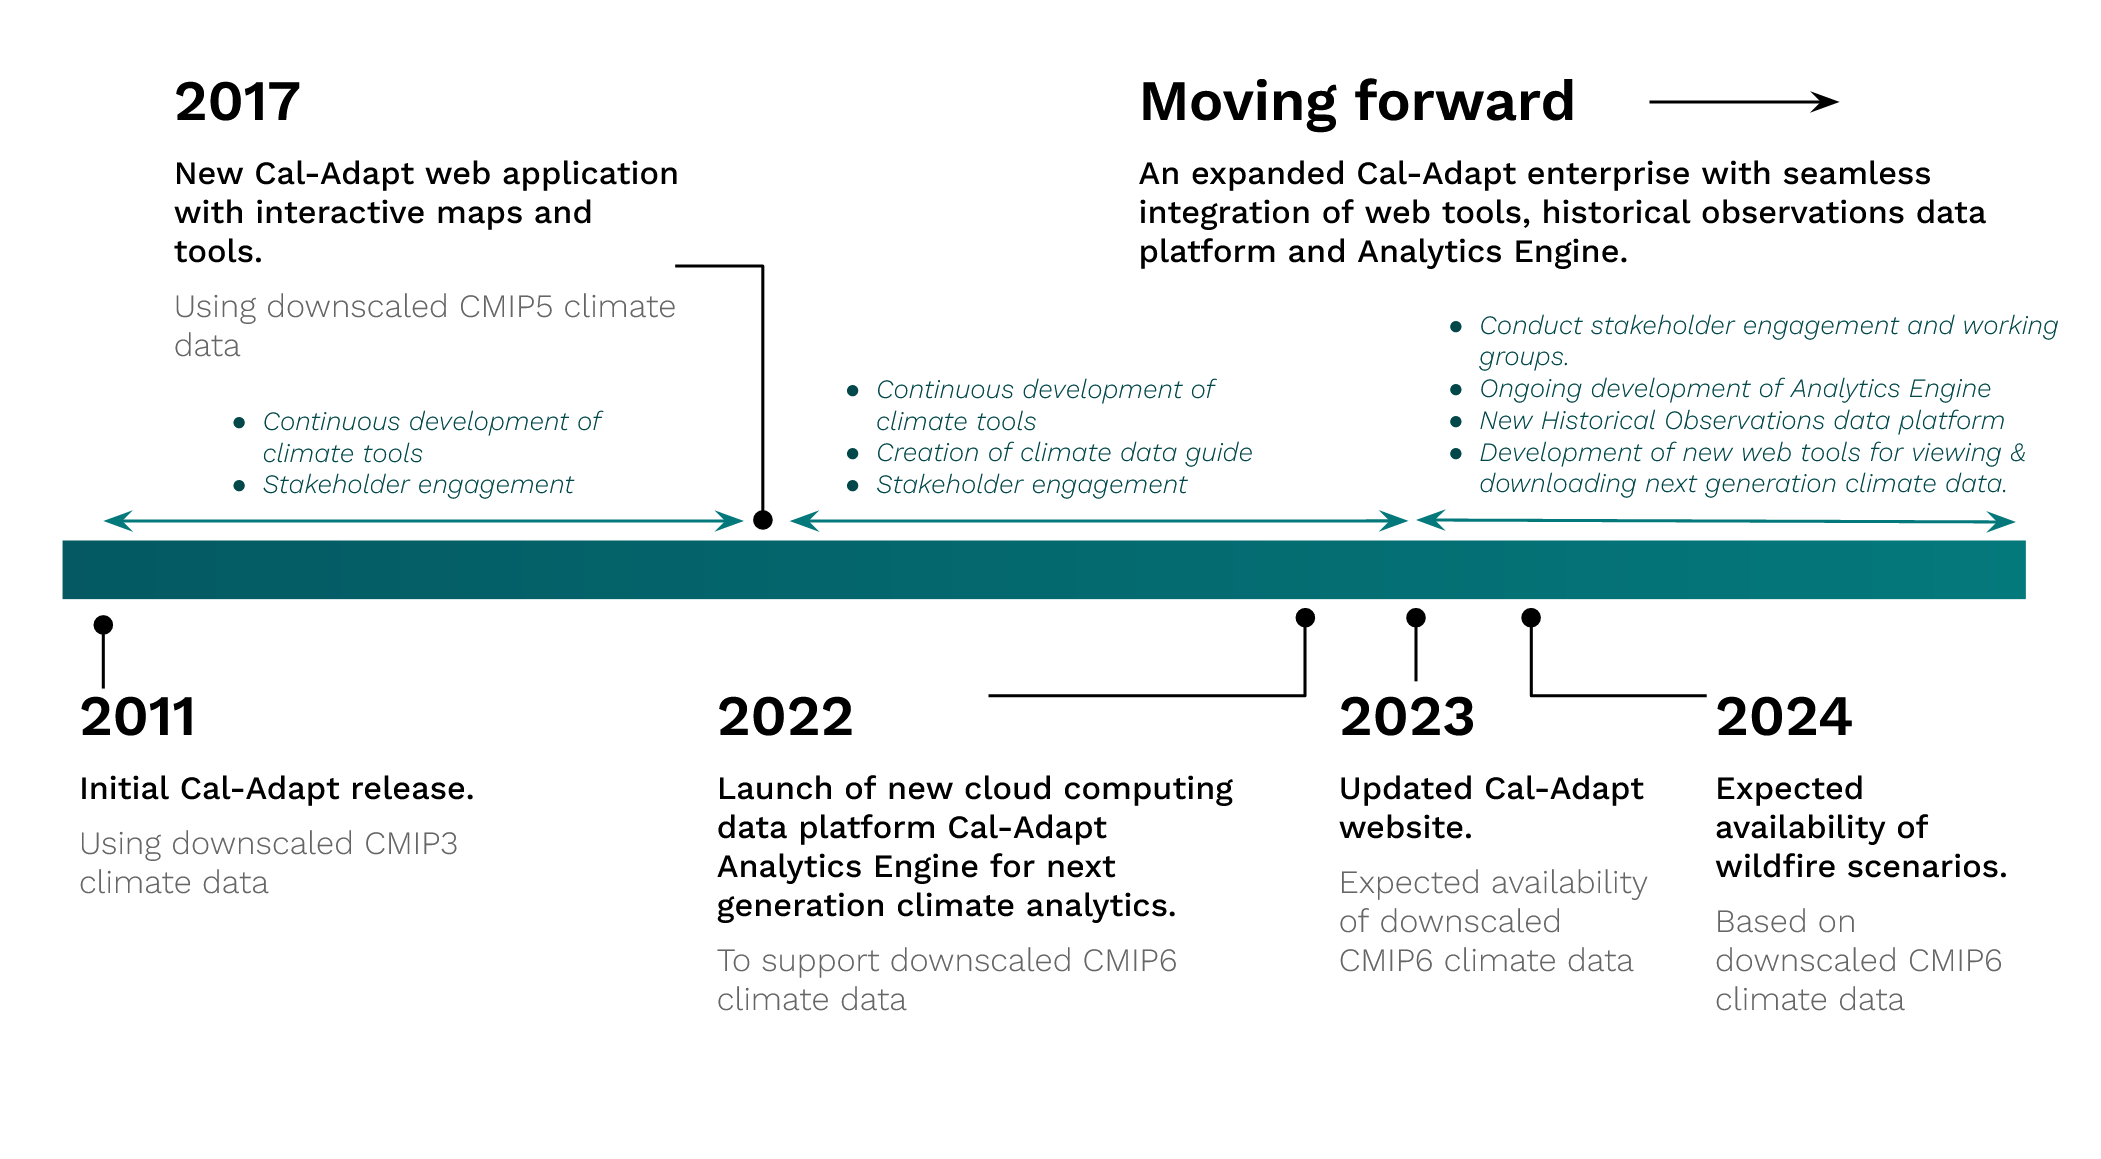
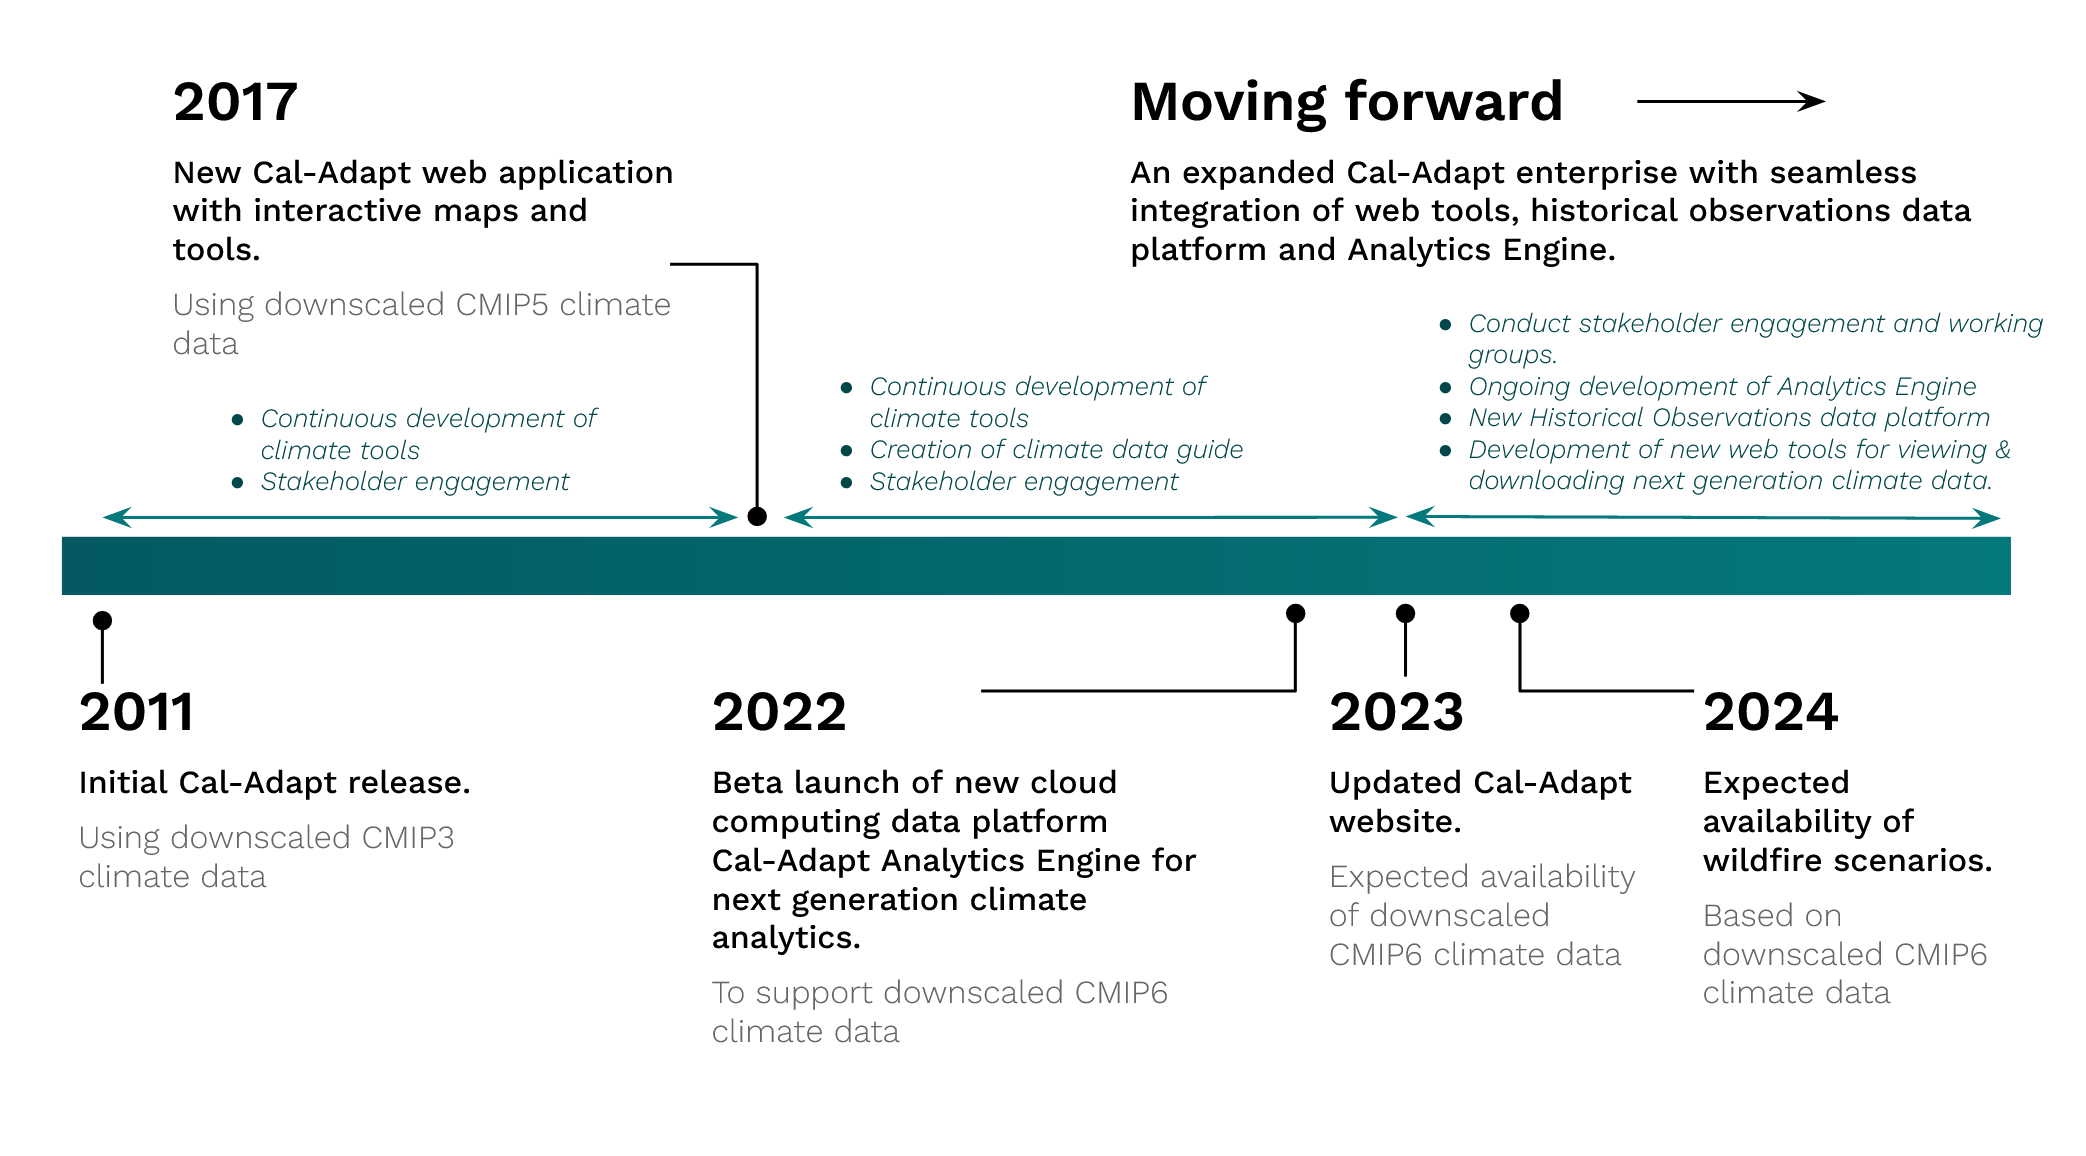
Quick cleanup (#263)
* fix link

* rephrase downscaling description

* fix memo link

* adjust width of ae text

* remove temp cards variable

* hide header row on small screens

* remove aspect ration class

* add beta to AE launch text

diff --git a/src/routes/index.svelte b/src/routes/index.svelte
@@ -1,29 +1,4 @@
 <script context="module">
-  // This is a temporary variable. We can get rid of it once the landing page changes have been finalized and approved
-  const cardsDataTemp = [
-    {
-      titleText: "Local Climate Change Snapshot Tool",
-      linkPath: "/tools/local-climate-change-snapshot",
-      description:
-        "Quickly view a variety of climate data for a city, county, or other place.",
-      bgColor: "var(--card-gradient-02)",
-    },
-    {
-      titleText: "Explore all Climate Tools",
-      linkPath: "/tools",
-      description:
-        "Explore data on temperature, precipitation, snowpack, wildfire, and more.",
-      bgColor: "var(--card-gradient-03)",
-    },
-    {
-      titleText: "Download Data",
-      linkPath: "/data",
-      description:
-        "Download Fourth Assessment climate data in NetCDF, GeoTIFF and CSV formats.",
-      bgColor: "var(--card-gradient-03)",
-    },
-  ];
-
   export async function preload() {
     const posts = await this.fetch(`blog.json`)
       .then((r) => r.json())
@@ -37,8 +12,7 @@
     return {
       posts,
       events,
-      //cardsData: data.cardsData,
-      cardsData: cardsDataTemp,
+      cardsData: data.cardsData,
     };
   }
 </script>
@@ -105,7 +79,7 @@
   }
 
   .ae-logo-text {
-    @include mq-mobile-tablet {
+    @include media("<=1329px") {
       grid-column: span 1;
     }
   }
@@ -212,10 +186,11 @@
         </div>
         <div class="ae-logo-text">
           <p class="lg-width">
-            A <a href="https://analytics.cal-adapt.org/" target="_blank"
-              >climate data platform</a
+            The <a href="https://analytics.cal-adapt.org/" target="_blank"
+              >Cal-Adapt Analytics Engine</a
             >
-            developed for California's
+            is a <strong>climate data platform</strong> developed for
+            California's
             <a
               href="https://opr.ca.gov/climate/icarp/climate-assessment/"
               target="_blank">Fifth Climate Change Assessment</a

diff --git a/content/homepage/cards.js b/content/homepage/cards.js
@@ -1,11 +1,11 @@
 export default [
-  {
+/*   {
     titleText: "New to Cal-Adapt?",
     linkPath: "/help/get-started",
     description:
       "Learn how to get started with using climate data for California.",
     bgColor: "var(--card-gradient-01)",
-  },
+  }, */
   {
     titleText: "Local Climate Change Snapshot Tool",
     linkPath: "/tools/local-climate-change-snapshot",
@@ -24,10 +24,10 @@ export default [
     titleText: "Download Data",
     linkPath: "/data",
     description:
-      "Download climate data in NetCDF, CSV and GeoTIFF formats for your area.",
+     "Download Fourth Assessment climate data in NetCDF, GeoTIFF and CSV formats.",
     bgColor: "var(--card-gradient-03)",
   },
-  {
+/*   {
     titleText: "Tutorials & Webinars",
     linkPath: "/help/tutorials",
     description:
@@ -40,5 +40,5 @@ export default [
     description:
       "Integrate climate data in your workflows with the Cal-Adapt API.",
     bgColor: "var(--card-gradient-01)",
-  },
+  }, */
 ];

diff --git a/src/routes/grants/index.svelte b/src/routes/grants/index.svelte
@@ -39,13 +39,29 @@
   export let researchData;
 </script>
 
-<style>
+<style lang="scss">
+  @import "scss/site/mixins/media-queries";
+
   p:not(.lead) {
     font-size: 1.125rem;
   }
 
   :global(.bx--structured-list) {
     background-color: #fff;
+  }
+
+  :global(.bx--structured-list-thead) {
+    @include media("<=400px") {
+      display: none;
+    }
+  }
+
+  :global(.bx--structured-list
+      .bx--structured-list-row
+      .bx--structured-list-td:first-of-type) {
+    @include media("<=400px") {
+      padding-left: 0.5rem;
+    }
   }
 </style>
 

diff --git a/src/routes/index.json.js b/src/routes/index.json.js
@@ -6,7 +6,7 @@ export function get(req, res, next) {
     res.writeHead(200, {
       "Content-Type": "application/json",
     });
-    res.end(JSON.stringify(cardsData));
+    res.end(JSON.stringify({ cardsData }));
   } else {
     next();
   }

diff --git a/content/blog/2023-03-01-climate-data-access.md b/content/blog/2023-03-01-climate-data-access.md
@@ -6,7 +6,7 @@ tags: data, Fifth Assessment
 snippet: Access downscaled future climate projections and historical climate for models & scenarios at three spatial domains.
 ---
 
-Preliminary climate data that may support <a href="https://opr.ca.gov/climate/icarp/climate-assessment/" target="_blank">California’s Fifth Climate Change Assessment</a> (Fifth Assessment) is available for California. This data is aligned with the latest generation of climate models from <a href="https://www.wcrp-climate.org/wgcm-cmip/wgcm-cmip6" target="_blank">Coupled Model Intercomparison Project Phase 6</a> (CMIP6) used by the <a href="https://www.ipcc.ch/assessment-report/ar6/" target="_blank">Intergovernmental Panel on Climate Change</a> (IPCC) global sixth assessment report.
+Preliminary climate data to be considered for <a href="https://opr.ca.gov/climate/icarp/climate-assessment/" target="_blank">California’s Fifth Climate Change Assessment</a> (Fifth Assessment) are available. This data is aligned with the latest generation of climate models from <a href="https://www.wcrp-climate.org/wgcm-cmip/wgcm-cmip6" target="_blank">Coupled Model Intercomparison Project Phase 6</a> (CMIP6) used by the <a href="https://www.ipcc.ch/assessment-report/ar6/" target="_blank">Intergovernmental Panel on Climate Change</a> (IPCC) global sixth assessment report.
 
 ## Models and scenarios
 

diff --git a/content/blog/2023-03-03-expanded-caladapt-enterprise.md b/content/blog/2023-03-03-expanded-caladapt-enterprise.md
@@ -11,7 +11,7 @@ Cal-Adapt is evolving substantially, expanding beyond its current capabilities t
 - A revamped suite of web tools, analytical tools and computational resources for working with the next generation climate data 
 - A new Historical Observations data platform
 
-The expanded Cal-Adapt enterprise will continue to provide essential visualization, analytical and computational resources to support a broad range of stakeholders in using large climate datasets to inform their decision-making and planning processes. For additional details on state agency vision and roles in this expanded enterprise, please see this <a href="https://efiling.energy.ca.gov/GetDocument.aspx?tn=239123&DocumentContentId=72578" target="_blank">CEC Staff memo</a>.
+The expanded Cal-Adapt enterprise will continue to provide essential visualization, analytical and computational resources to support a broad range of stakeholders in using large climate datasets to inform their decision-making and planning processes. For additional details on state agency vision and roles in this expanded enterprise, please see this <a href="https://efiling.energy.ca.gov/GetDocument.aspx?tn=239954&DocumentContentId=73401" target="_blank">CEC Staff memo</a>.
 
 <img src="/img/blog/caladapt_roadmap.png" style="width:100%;margin:1rem auto;" alt="Evolution of the Cal-Adapt enterprise">
 
